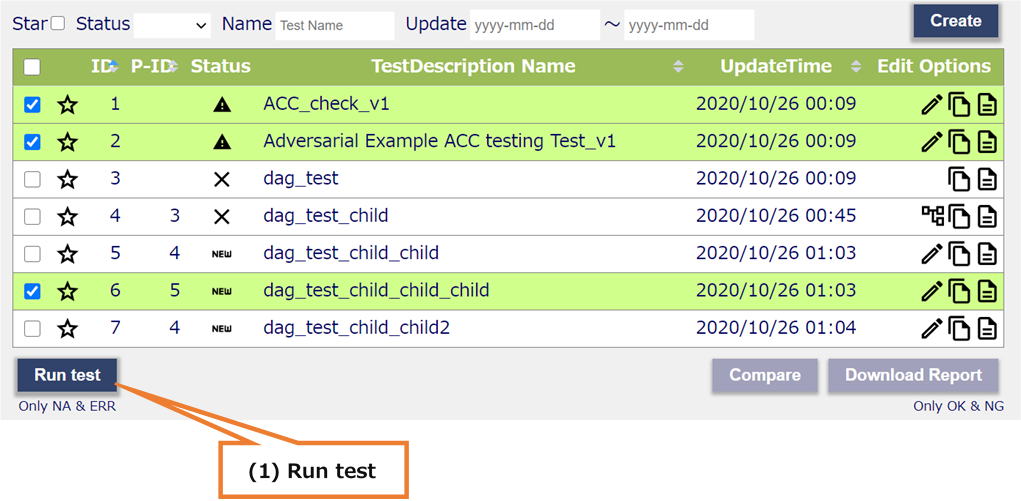
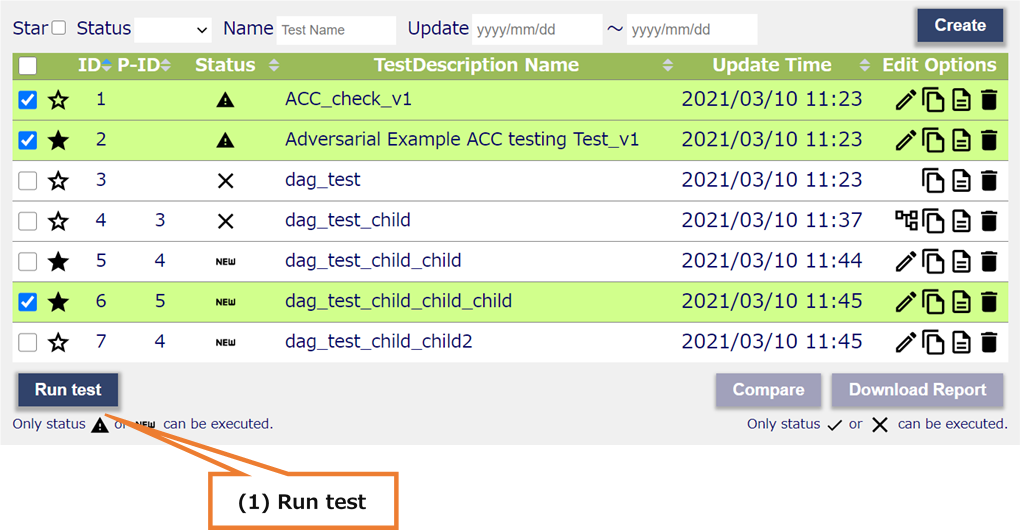
0.1.8(sprint31)

Changed region(s): [[0.0, 0.0, 1.0, 1.0]]

diff --git a/docs/user-manual/searchindex.js b/docs/user-manual/searchindex.js
@@ -1,1 +1,1 @@
-Search.setIndex({docnames:["01_Signin/01_Signin","01_Signin/index","02_MLComponents/01_MLComponents","02_MLComponents/index","03_MLComponentsCreate/01_MLComponentsCreate","03_MLComponentsCreate/index","04_TestDescriptions/01_TestDescriptions","04_TestDescriptions/index","05_TestDescriptionsCreate/01_TestDescriptionsCreate","05_TestDescriptionsCreate/index","06_TestDescriptionsEdit/01_TestDescriptionsEdit","06_TestDescriptionsEdit/index","07_TestDescriptionsCopy/01_TestDescriptionsCopy","07_TestDescriptionsCopy/index","08_TestDescriptionsDetail/01_TestDescriptionsDetail","08_TestDescriptionsDetail/index","09_Inventories/01_Inventories","09_Inventories/index","10_InventoriesCreate/01_InventoriesCreate","10_InventoriesCreate/index","11_InventoryEdit/01_InventoryEdit","11_InventoryEdit/index","12_Information/01_Information","12_Information/index","13_TestDescriptionCompare/01_TestDescriptionCompare","13_TestDescriptionCompare/index","14_TestDescriptionDownload/01_TestDescriptionDownload","14_TestDescriptionDownload/index","index"],envversion:{"sphinx.domains.c":2,"sphinx.domains.changeset":1,"sphinx.domains.citation":1,"sphinx.domains.cpp":3,"sphinx.domains.index":1,"sphinx.domains.javascript":2,"sphinx.domains.math":2,"sphinx.domains.python":2,"sphinx.domains.rst":2,"sphinx.domains.std":1,nbsphinx:3,sphinx:56},filenames:["01_Signin\\01_Signin.md","01_Signin\\index.toc","02_MLComponents\\01_MLComponents.md","02_MLComponents\\index.toc","03_MLComponentsCreate\\01_MLComponentsCreate.md","03_MLComponentsCreate\\index.toc","04_TestDescriptions\\01_TestDescriptions.md","04_TestDescriptions\\index.toc","05_TestDescriptionsCreate\\01_TestDescriptionsCreate.md","05_TestDescriptionsCreate\\index.toc","06_TestDescriptionsEdit\\01_TestDescriptionsEdit.md","06_TestDescriptionsEdit\\index.toc","07_TestDescriptionsCopy\\01_TestDescriptionsCopy.md","07_TestDescriptionsCopy\\index.toc","08_TestDescriptionsDetail\\01_TestDescriptionsDetail.md","08_TestDescriptionsDetail\\index.toc","09_Inventories\\01_Inventories.md","09_Inventories\\index.toc","10_InventoriesCreate\\01_InventoriesCreate.md","10_InventoriesCreate\\index.toc","11_InventoryEdit\\01_InventoryEdit.md","11_InventoryEdit\\index.toc","12_Information\\01_Information.md","12_Information\\index.toc","13_TestDescriptionCompare\\01_TestDescriptionCompare.md","13_TestDescriptionCompare\\index.toc","14_TestDescriptionDownload\\01_TestDescriptionDownload.md","14_TestDescriptionDownload\\index.toc","index.toc"],objects:{},objnames:{},objtypes:{},terms:{"\u03b1":0,"new":12,"return":[8,10,12],"switch":[2,6,8,10,12,14,16,22,24,26],For:14,Not:6,The:[2,6,8,10,12,14,16,24,26],abl:6,acquir:14,activ:[8,10,14],add:[8,10,12,14,24],after:[8,10,12],ait:[8,10,12,14,24],all:[3,7,9,11,13,15,17,19,21,23,25,27,28],alreadi:[10,14],anoth:[14,24,26],anyth:[24,26],area:[0,3,4,7,9,11,13,15,17,19,21,23,25,27,28],assess:[8,10,12,14],associ:[6,8,16],back:[8,10],background:6,becaus:24,becom:[8,10,12],been:[6,10,12],befor:10,below:[14,24,26],bookmark:[6,14],both:6,box:[8,10,12],button:[0,2,6,8,10,12,14,16],can:[0,6,8,10,12,14,24],cancel:[4,6,8,10,12,14,18,20],cannot:12,carri:14,cell:14,chang:[6,10,12,14,24],charact:[2,16],chart:24,check:[6,8,10,12,14,25,27,28],child:12,click:[8,10,14,24,26],close:[4,14,18,20],code:22,color:6,column:[2,6,14,16],compar:[6,24],comparison:[7,24,28],complet:14,compon:14,condit:[6,8,10,12],confirm:[8,10,12,14,24],content:[8,10,12,15,22,28],copi:[6,12,14],creat:[2,4,6,8,10,12,16,18],creation:[2,6,16],css:14,data:4,delet:[14,16],descript:[6,8,10,12,14,26],detail:[6,8,10,12,15,24,26,28],determin:[8,14],dimens:[8,10,12],displai:[2,7,8,10,12,14,16,22,24,26,28],doubl:14,download:[7,14,26,28],drag:14,drop:14,each:6,edit:[6,10,14,16,20],editori:16,english:[2,6,8,10,12,14,16,22,24,26],enter:[0,8,10,12,14,24],err:[6,15,28],error:[8,10,12,22],even:[24,26],execut:[6,14,24,26],exist:26,favorit:[6,14,24],first:[8,10,12],follow:6,format:[8,10,12,14,24,26],gener:[8,10,12],graph:[15,25,27,28],half:[8,10,12],has:[10,12],have:[6,24],header:[2,6,8,10,12,14,16,22,24,26],howev:6,icon:[6,14,24,26],implement:[7,28],inact:[8,10,12],indic:22,inform:[0,2,6,8,10,12,14,16,18,20,24,26,28],initi:8,input:[0,4,8,10,12,14,18,20],inventori:[6,8,10,12,14,18,20,24,26,28],inventoriescr:28,inventoryedit:28,item:[4,6,8,10,12,14],its:[14,24,26],japanes:[2,6,8,10,12,14,16,22,24,26],languag:[2,6,8,10,12,14,16,22,24,26],left:14,line:[14,24,26],link:26,list:[2,7,8,10,16,28],main:[3,6,9,11,13,15,17,22,25,27,28],mani:[8,10,12],match:[8,10,12],messag:[8,10,12,22],met:6,mlcompon:[6,8,10,12,14,16,22,24,26,28],mlcomponen:4,mlcomponentscr:28,mlcomponentscreatemod:[5,28],modal:[2,4,6,8,10,12,16,18,20],mous:6,move:[6,8,10],multipl:[6,8,10,12],name:[2,6,8,10,12,14,16,24,26],next:[0,8,10],noth:[14,24,26],one:6,open:14,oper:[8,10,12],opinion:[6,14,24],order:14,origin:[6,14,24,26],other:[24,26],out:[2,6,8,10,12,14,16,22,24,26],output:14,over:6,page:[22,24],paramet:[8,10,12],parent:12,pass:[8,10,12],perform:[6,15,28],pictur:[14,24,26],possibl:[6,8,10,12,14,26],press:[0,2,6,8,10,12,14,16,26],proce:0,program:[8,10,12],qualiti:[8,10,12,14],qualityasses:[14,24],radio:[8,10],real:[2,6,16],regist:[6,8,10,12,14,24],relat:[8,10,12],relationship:[6,8,10,12],relev:[7,28],remov:24,replac:14,report:[7,15,28],requir:4,resourc:[14,26],result:[7,15,24,26,28],right:14,run:6,same:[6,14,24],satisfi:6,save:[6,14],screen:[0,2,4,6,8,10,12,14,18,20,24,26],scroll:[8,10,12],search:[2,6,16],second:[8,10,12],see:[6,14,24,26],select:[6,8,10,12,14,16,24,26],set:[8,10,12,14],show:22,sign:[1,2,6,8,10,12,14,16,22,24,26,28],signin:28,size:[14,24,26],sort:[2,6,16],sourc:[6,12,26],statu:6,subject:[8,10,12],submenu:[2,6,8,10,12,14,16,22,24,26],tab:[14,24,26],tabl:[2,6,8,10,14,16,24,26],target:[2,8,10,12,14,16],targetinventori:14,test:[7,8,10,12,15,24,26,28],testdescript:[8,10,12,14,16,24,26,28],testdescriptioncompar:28,testdescriptiondetail:26,testdescriptiondownload:28,testdescriptionscopi:28,testdescriptionscr:28,testdescriptionsdetail:28,testdescriptionsedit:28,than:[24,26],thei:24,thi:[8,14,24],three:6,time:[2,6,14,16],titl:[2,14,16,22,24],top:[8,10,12],transit:[6,8,10,14,26],tsetdescript:6,two:[6,24],type:[2,16],uncheck:[8,10,12],updat:[10,20],user:[0,6],valu:[8,10,12],version:0,view:[16,24],want:[8,10,12],when:[2,6,14,16,26],which:16,whose:[14,24,26],without:0,would:16,you:[0,2,6,8,10,12,14,16,24,26]},titles:["<span class=\"section-number\">1.1. </span>Sign in","<span class=\"section-number\">1. </span>Signin","<span class=\"section-number\">2.1. </span>MLComponents","<span class=\"section-number\">2. </span>MLComponents","<span class=\"section-number\">3.1. </span>MLComponentsCreate","<span class=\"section-number\">3. </span>MLComponentsCreate","<span class=\"section-number\">4.1. </span>TestDescriptions","<span class=\"section-number\">4. </span>TestDescriptions","<span class=\"section-number\">5.1. </span>TestDescriptionsCreate","<span class=\"section-number\">5. </span>TestDescriptionsCreate","<span class=\"section-number\">6.1. </span>TestDescriptionsEdit","<span class=\"section-number\">6. </span>TestDescriptionsEdit","<span class=\"section-number\">7.1. </span>TestDescriptionsCopy","<span class=\"section-number\">7. </span>TestDescriptionsCopy","<span class=\"section-number\">8.1. </span>TestDescriptionsDetail","<span class=\"section-number\">8. </span>TestDescriptionsDetail","<span class=\"section-number\">9.1. </span>Inventories","<span class=\"section-number\">9. </span>Inventories","<span class=\"section-number\">10.1. </span>InventoriesCreate","<span class=\"section-number\">10. </span>InventoriesCreate","<span class=\"section-number\">11.1. </span>InventoryEdit","<span class=\"section-number\">11. </span>InventoryEdit","<span class=\"section-number\">12.1. </span>Information","<span class=\"section-number\">12. </span>Information","<span class=\"section-number\">13.1. </span>TestDescriptionCompare","<span class=\"section-number\">13. </span>TestDescriptionCompare","<span class=\"section-number\">14.1. </span>TestDescriptionDownload","<span class=\"section-number\">14. </span>TestDescriptionDownload","USER MANUAL Documentation"],titleterms:{all:[2,6,8,10,12,14,16,18,20,22,24,26],area:[2,6,8,10,12,14,16,18,20,22,24,26],check:[24,26],comparison:6,content:14,detail:14,displai:6,document:28,download:6,err:14,graph:[14,24,26],implement:6,inform:[22,23],inventori:[16,17],inventoriescr:[18,19],inventoryedit:[20,21],list:6,main:[2,8,10,12,14,16,24,26],manual:28,mlcompon:[2,3],mlcomponentscr:[4,5],mlcomponentscreatemod:4,perform:14,relev:6,report:[6,14],result:[6,14],sign:0,signin:1,test:[6,14],testdescript:[6,7],testdescriptioncompar:[24,25],testdescriptiondownload:[26,27],testdescriptionscopi:[12,13],testdescriptionscr:[8,9],testdescriptionsdetail:[14,15],testdescriptionsedit:[10,11],user:28}})
+Search.setIndex({docnames:["01_Signin/01_Signin","01_Signin/index","02_MLComponents/01_MLComponents","02_MLComponents/index","03_MLComponentsCreate/01_MLComponentsCreate","03_MLComponentsCreate/index","04_TestDescriptions/01_TestDescriptions","04_TestDescriptions/index","05_TestDescriptionsCreate/01_TestDescriptionsCreate","05_TestDescriptionsCreate/index","06_TestDescriptionsEdit/01_TestDescriptionsEdit","06_TestDescriptionsEdit/index","07_TestDescriptionsCopy/01_TestDescriptionsCopy","07_TestDescriptionsCopy/index","08_TestDescriptionsDetail/01_TestDescriptionsDetail","08_TestDescriptionsDetail/index","09_Inventories/01_Inventories","09_Inventories/index","10_InventoriesCreate/01_InventoriesCreate","10_InventoriesCreate/index","11_InventoryEdit/01_InventoryEdit","11_InventoryEdit/index","12_Information/01_Information","12_Information/index","13_TestDescriptionCompare/01_TestDescriptionCompare","13_TestDescriptionCompare/index","14_TestDescriptionDownload/01_TestDescriptionDownload","14_TestDescriptionDownload/index","index"],envversion:{"sphinx.domains.c":2,"sphinx.domains.changeset":1,"sphinx.domains.citation":1,"sphinx.domains.cpp":3,"sphinx.domains.index":1,"sphinx.domains.javascript":2,"sphinx.domains.math":2,"sphinx.domains.python":2,"sphinx.domains.rst":2,"sphinx.domains.std":1,nbsphinx:3,sphinx:56},filenames:["01_Signin\\01_Signin.md","01_Signin\\index.toc","02_MLComponents\\01_MLComponents.md","02_MLComponents\\index.toc","03_MLComponentsCreate\\01_MLComponentsCreate.md","03_MLComponentsCreate\\index.toc","04_TestDescriptions\\01_TestDescriptions.md","04_TestDescriptions\\index.toc","05_TestDescriptionsCreate\\01_TestDescriptionsCreate.md","05_TestDescriptionsCreate\\index.toc","06_TestDescriptionsEdit\\01_TestDescriptionsEdit.md","06_TestDescriptionsEdit\\index.toc","07_TestDescriptionsCopy\\01_TestDescriptionsCopy.md","07_TestDescriptionsCopy\\index.toc","08_TestDescriptionsDetail\\01_TestDescriptionsDetail.md","08_TestDescriptionsDetail\\index.toc","09_Inventories\\01_Inventories.md","09_Inventories\\index.toc","10_InventoriesCreate\\01_InventoriesCreate.md","10_InventoriesCreate\\index.toc","11_InventoryEdit\\01_InventoryEdit.md","11_InventoryEdit\\index.toc","12_Information\\01_Information.md","12_Information\\index.toc","13_TestDescriptionCompare\\01_TestDescriptionCompare.md","13_TestDescriptionCompare\\index.toc","14_TestDescriptionDownload\\01_TestDescriptionDownload.md","14_TestDescriptionDownload\\index.toc","index.toc"],objects:{},objnames:{},objtypes:{},terms:{"\u03b1":0,"new":12,"return":[8,10,12],"switch":[2,6,8,10,12,14,16,22,24,26],For:14,Not:6,The:[2,6,8,10,12,14,16,24,26],abl:6,acquir:14,activ:[8,10,14],add:[8,10,12,14,24],after:[8,10,12],ait:[8,10,12,14,24],all:[3,7,9,11,13,15,17,19,21,23,25,27,28],alreadi:[10,14],anoth:[14,24,26],anyth:[24,26],area:[0,3,4,7,9,11,13,15,17,19,21,23,25,27,28],assess:[8,10,12,14],associ:[6,8,16],back:[8,10],background:6,becaus:24,becom:[8,10,12],been:[6,10,12],befor:10,below:[14,24,26],bookmark:[6,14],both:6,box:[8,10,12],button:[0,2,6,8,10,12,14,16],can:[0,6,8,10,12,14,24],cancel:[4,6,8,10,12,14,18,20],cannot:12,carri:14,cell:14,chang:[6,10,12,14,24],charact:[2,16],chart:24,check:[6,8,10,12,14,25,27,28],child:12,click:[8,10,14,24,26],close:[4,14,18,20],code:22,color:6,column:[2,6,14,16],compar:[6,24],comparison:[7,24,28],complet:14,compon:14,condit:[6,8,10,12],confirm:[8,10,12,14,24],content:[8,10,12,15,22,28],copi:[6,12,14],creat:[2,4,6,8,10,12,16,18],creation:[2,6,16],css:14,data:4,delet:[6,14,16],descript:[6,8,10,12,14,26],detail:[6,8,10,12,15,24,26,28],determin:[8,14],dimens:[8,10,12],displai:[2,7,8,10,12,14,16,22,24,26,28],doubl:14,download:[7,14,26,28],drag:14,drop:14,each:6,edit:[6,10,14,16,20],editori:16,english:[2,6,8,10,12,14,16,22,24,26],enter:[0,8,10,12,14,24],err:[6,15,28],error:[8,10,12,22],even:[24,26],execut:[6,14,24,26],exist:26,favorit:[6,14,24],first:[8,10,12],follow:6,format:[8,10,12,14,24,26],gener:[8,10,12],graph:[15,25,27,28],half:[8,10,12],has:[10,12],have:[6,24],header:[2,6,8,10,12,14,16,22,24,26],howev:6,icon:[6,14,24,26],implement:[7,28],inact:[8,10,12],indic:22,inform:[0,2,6,8,10,12,14,16,18,20,24,26,28],initi:8,input:[0,4,8,10,12,14,18,20],inventori:[6,8,10,12,14,18,20,24,26,28],inventoriescr:28,inventoryedit:28,item:[4,6,8,10,12,14],its:[14,24,26],japanes:[2,6,8,10,12,14,16,22,24,26],languag:[2,6,8,10,12,14,16,22,24,26],left:14,line:[14,24,26],link:26,list:[2,7,8,10,16,28],main:[3,6,9,11,13,15,17,22,25,27,28],mani:[8,10,12],match:[8,10,12],messag:[8,10,12,22],met:6,mlcompon:[6,8,10,12,14,16,22,24,26,28],mlcomponen:4,mlcomponentscr:28,mlcomponentscreatemod:[5,28],modal:[2,4,6,8,10,12,16,18,20],mous:6,move:[6,8,10],multipl:[6,8,10,12],name:[2,6,8,10,12,14,16,24,26],next:[0,8,10],noth:[14,24,26],one:6,open:14,oper:[8,10,12],opinion:[6,14,24],order:14,origin:[6,14,24,26],other:[24,26],out:[2,6,8,10,12,14,16,22,24,26],output:14,over:6,page:[22,24],paramet:[8,10,12],parent:12,pass:[8,10,12],perform:[6,15,28],pictur:[14,24,26],possibl:[6,8,10,12,14,26],press:[0,2,6,8,10,12,14,16,26],proce:0,program:[8,10,12],qualiti:[8,10,12,14],qualityasses:[14,24],radio:[8,10],real:[2,6,16],regist:[6,8,10,12,14,24],relat:[8,10,12],relationship:[6,8,10,12],relev:[7,28],remov:24,replac:14,report:[7,15,28],requir:4,resourc:[14,26],result:[7,15,24,26,28],right:14,run:6,same:[6,14,24],satisfi:6,save:[6,14],screen:[0,2,4,6,8,10,12,14,18,20,24,26],scroll:[8,10,12],search:[2,6,16],second:[8,10,12],see:[6,14,24,26],select:[6,8,10,12,14,16,24,26],set:[8,10,12,14],show:22,sign:[1,2,6,8,10,12,14,16,22,24,26,28],signin:28,size:[14,24,26],sort:[2,6,16],sourc:[6,12,26],statu:6,subject:[8,10,12],submenu:[2,6,8,10,12,14,16,22,24,26],tab:[14,24,26],tabl:[2,6,8,10,14,16,24,26],target:[2,8,10,12,14,16],targetinventori:14,test:[7,8,10,12,15,24,26,28],testdescript:[8,10,12,14,16,24,26,28],testdescriptioncompar:28,testdescriptiondetail:26,testdescriptiondownload:28,testdescriptionscopi:28,testdescriptionscr:28,testdescriptionsdetail:28,testdescriptionsedit:28,than:[24,26],thei:24,thi:[8,14,24],three:6,time:[2,6,14,16],titl:[2,14,16,22,24],top:[8,10,12],transit:[6,8,10,14,26],tsetdescript:6,two:[6,24],type:[2,16],uncheck:[8,10,12],updat:[10,20],user:[0,6],valu:[8,10,12],version:0,view:[16,24],want:[8,10,12],when:[2,6,14,16,26],which:16,whose:[14,24,26],without:0,would:16,you:[0,2,6,8,10,12,14,16,24,26]},titles:["<span class=\"section-number\">1.1. </span>Sign in","<span class=\"section-number\">1. </span>Signin","<span class=\"section-number\">2.1. </span>MLComponents","<span class=\"section-number\">2. </span>MLComponents","<span class=\"section-number\">3.1. </span>MLComponentsCreate","<span class=\"section-number\">3. </span>MLComponentsCreate","<span class=\"section-number\">4.1. </span>TestDescriptions","<span class=\"section-number\">4. </span>TestDescriptions","<span class=\"section-number\">5.1. </span>TestDescriptionsCreate","<span class=\"section-number\">5. </span>TestDescriptionsCreate","<span class=\"section-number\">6.1. </span>TestDescriptionsEdit","<span class=\"section-number\">6. </span>TestDescriptionsEdit","<span class=\"section-number\">7.1. </span>TestDescriptionsCopy","<span class=\"section-number\">7. </span>TestDescriptionsCopy","<span class=\"section-number\">8.1. </span>TestDescriptionsDetail","<span class=\"section-number\">8. </span>TestDescriptionsDetail","<span class=\"section-number\">9.1. </span>Inventories","<span class=\"section-number\">9. </span>Inventories","<span class=\"section-number\">10.1. </span>InventoriesCreate","<span class=\"section-number\">10. </span>InventoriesCreate","<span class=\"section-number\">11.1. </span>InventoryEdit","<span class=\"section-number\">11. </span>InventoryEdit","<span class=\"section-number\">12.1. </span>Information","<span class=\"section-number\">12. </span>Information","<span class=\"section-number\">13.1. </span>TestDescriptionCompare","<span class=\"section-number\">13. </span>TestDescriptionCompare","<span class=\"section-number\">14.1. </span>TestDescriptionDownload","<span class=\"section-number\">14. </span>TestDescriptionDownload","USER MANUAL Documentation"],titleterms:{all:[2,6,8,10,12,14,16,18,20,22,24,26],area:[2,6,8,10,12,14,16,18,20,22,24,26],check:[24,26],comparison:6,content:14,detail:14,displai:6,document:28,download:6,err:14,graph:[14,24,26],implement:6,inform:[22,23],inventori:[16,17],inventoriescr:[18,19],inventoryedit:[20,21],list:6,main:[2,8,10,12,14,16,24,26],manual:28,mlcompon:[2,3],mlcomponentscr:[4,5],mlcomponentscreatemod:4,perform:14,relev:6,report:[6,14],result:[6,14],sign:0,signin:1,test:[6,14],testdescript:[6,7],testdescriptioncompar:[24,25],testdescriptiondownload:[26,27],testdescriptionscopi:[12,13],testdescriptionscr:[8,9],testdescriptionsdetail:[14,15],testdescriptionsedit:[10,11],user:28}})

diff --git a/docs/user-manual/04_TestDescriptions/01_TestDescriptions.html b/docs/user-manual/04_TestDescriptions/01_TestDescriptions.html
@@ -289,25 +289,30 @@
 <li><p>You can register and cancel favorites by pressing the icon.</p></li>
 </ul>
 </li>
-<li><p>(9) Relevant TestDescription</p>
+<li><p>(9) Delete of TestDescription</p>
+<ul>
+<li><p>When you press the icon, the TestDescription is deleted.</p></li>
+</ul>
+</li>
+<li><p>(10) Relevant TestDescription</p>
 <ul>
 <li><p>When you press the icon, a modal that displays the copy source is displayed.</p></li>
 <li><p>(* See details 4.1.3)</p></li>
 </ul>
 </li>
-<li><p>(10) Test implementation</p>
+<li><p>(11) Test implementation</p>
 <ul>
 <li><p>When you press the button, the checked TestDescription test is executed.</p></li>
 <li><p>(* See details 4.1.4)</p></li>
 </ul>
 </li>
-<li><p>(11) Test result comparison</p>
+<li><p>(12) Test result comparison</p>
 <ul>
 <li><p>When you press the button, the compare the results of two TestDescription check.</p></li>
 <li><p>(* See details 4.1.5)</p></li>
 </ul>
 </li>
-<li><p>(12) Test result report download</p>
+<li><p>(13) Test result report download</p>
 <ul>
 <li><p>When the user presses the button, the download the results report of TestDescription checked.</p></li>
 <li><p>(* See details 4.1.6)</p></li>
@@ -329,6 +334,9 @@
 <li><p>Not displayed if there is no Opinion information</p></li>
 </ul>
 </li>
+</ul>
+<p><img alt="TestDescription list display" src="../_images/04_02_02.png" /></p>
+<ul class="simple">
 <li><p>(2) Check one Test Description</p>
 <ul>
 <li><p>The background color of the following Test Description changes</p>
